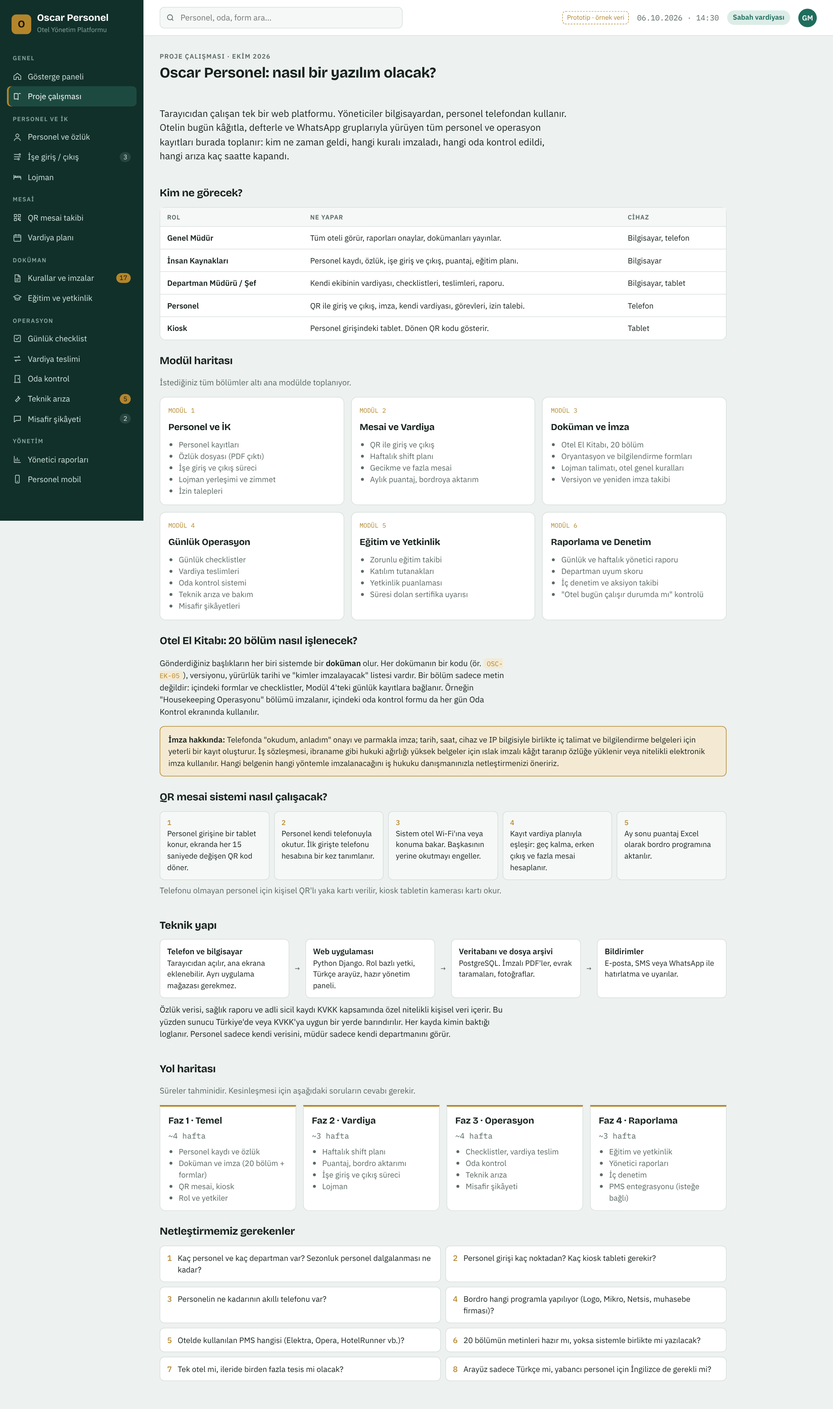
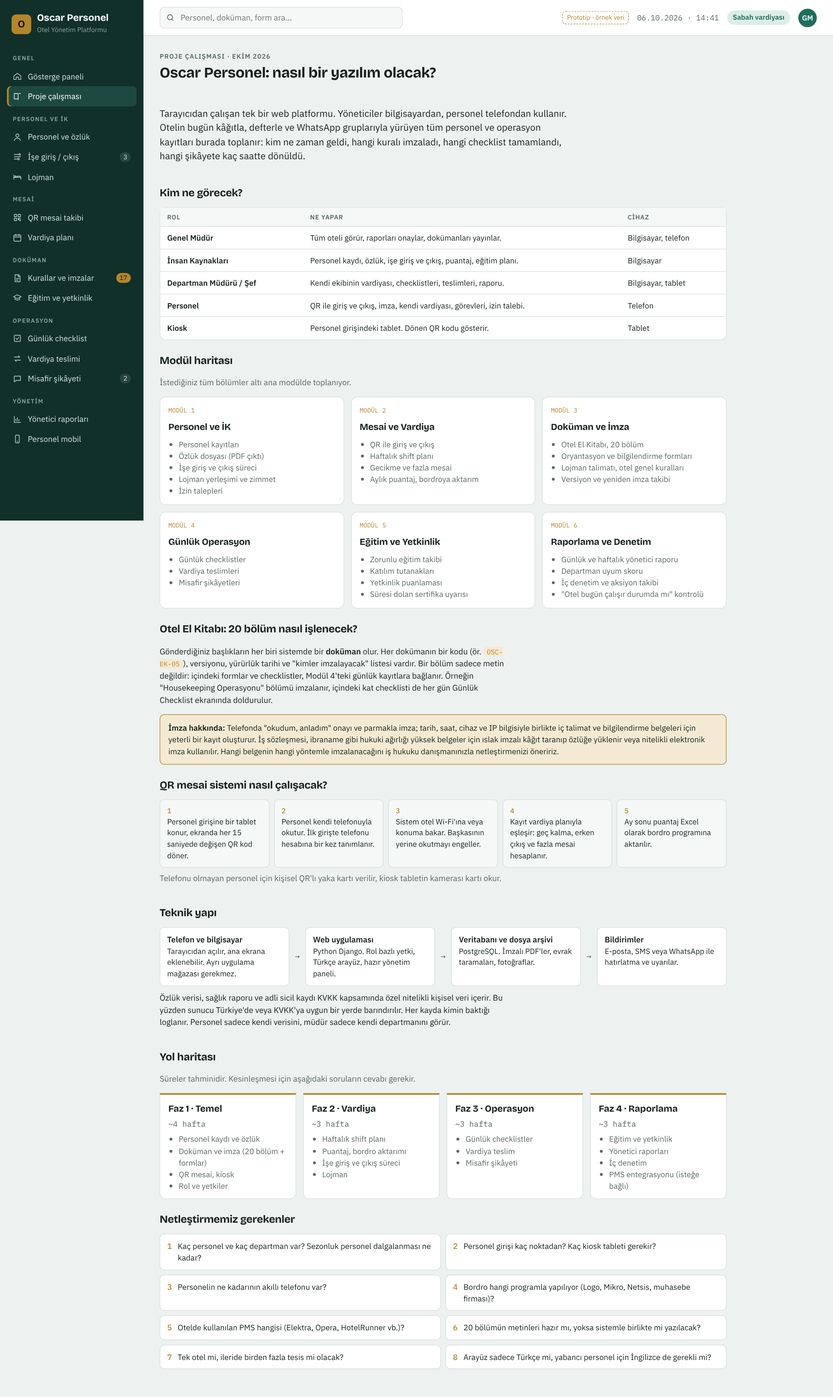
Oda kontrol ve teknik arıza modüllerini kapsamdan çıkar
Oda durumu ve arıza takibi bu platformdan yönetilmeyecek. Prototipten
ilgili ekranlar, menü öğeleri, panel kartları ve rapor göstergeleri
kaldırıldı; proje çalışması ve ekran görüntüleri güncellendi.

Claude-Session: https://claude.ai/code/session_018WVEAY7Ayzfr3JTLjjkH4o

diff --git a/prototip/index.html b/prototip/index.html
@@ -199,17 +199,6 @@ label.chk input{margin-top:3px;accent-color:var(--accent);width:16px;height:16px
 .cl-item.done span.t{color:var(--muted);text-decoration:line-through}
 .cl-item .by{margin-left:auto;font-size:.74rem;color:var(--muted);font-family:var(--f-mono);white-space:nowrap}
 
-/* Oda */
-.floors{display:flex;flex-direction:column;gap:10px}
-.floor{display:flex;gap:10px;align-items:center}
-.floor>span{width:48px;flex:none;font-family:var(--f-mono);font-size:.75rem;color:var(--muted)}
-.rooms{display:grid;grid-template-columns:repeat(auto-fill,minmax(54px,1fr));gap:6px;flex:1;min-width:0}
-.room{border-radius:7px;padding:6px 4px;text-align:center;font-family:var(--f-mono);font-size:.78rem;font-weight:500;border:1px solid transparent;background:none}
-.room.temiz{background:var(--ok-soft);color:var(--ok)} .room.kirli{background:var(--warn-soft);color:var(--warn)}
-.room.kontrol{background:var(--info-soft);color:var(--info)} .room.ariza{background:var(--bad-soft);color:var(--bad)}
-.room.dolu{background:var(--surface-2);color:var(--muted);border-color:var(--line)}
-.room.sel{outline:2px solid var(--brass);outline-offset:1px}
-
 /* Rapor grafikleri */
 .chart{width:100%;height:auto;display:block}
 .chart text{fill:var(--muted);font-family:var(--f-mono);font-size:10px}
@@ -272,7 +261,7 @@ label.chk input{margin-top:3px;accent-color:var(--accent);width:16px;height:16px
   <div class="main">
     <div class="top">
       <button class="btn sm menu-btn" id="menuBtn" aria-label="Menüyü aç">☰ Menü</button>
-      <label class="search" for="q"><svg width="15" height="15" viewBox="0 0 24 24" fill="none" stroke="currentColor" stroke-width="2"><circle cx="11" cy="11" r="7"/><path d="m20 20-3.5-3.5"/></svg><input id="q" placeholder="Personel, oda, form ara…"></label>
+      <label class="search" for="q"><svg width="15" height="15" viewBox="0 0 24 24" fill="none" stroke="currentColor" stroke-width="2"><circle cx="11" cy="11" r="7"/><path d="m20 20-3.5-3.5"/></svg><input id="q" placeholder="Personel, doküman, form ara…"></label>
       <div class="meta">
         <span class="demo-tag">Prototip · örnek veri</span>
         <span class="hide-sm muted mono" id="clock">06.10.2026 · 09:41</span>
@@ -289,8 +278,8 @@ label.chk input{margin-top:3px;accent-color:var(--accent);width:16px;height:16px
         <div class="kpi"><span class="eyebrow">İçerideki personel</span><span class="v">42<small> / 58</small></span><span class="d">Vardiyada olması gereken: 44</span></div>
         <div class="kpi warn"><span class="eyebrow">Geç kalan</span><span class="v">3</span><span class="d">Ort. gecikme 14 dk</span></div>
         <div class="kpi alert"><span class="eyebrow">İmza bekleyen</span><span class="v">17</span><span class="d">6 personel · 4 doküman</span></div>
-        <div class="kpi"><span class="eyebrow">Hazır oda</span><span class="v">96<small> / 120</small></span><span class="d">11 kontrol bekliyor</span></div>
-        <div class="kpi alert"><span class="eyebrow">Açık arıza</span><span class="v">5</span><span class="d">1 tanesi SLA dışında</span></div>
+        <div class="kpi warn"><span class="eyebrow">Checklist</span><span class="v">%86</span><span class="d">2 liste saatinde bitmedi</span></div>
+        <div class="kpi alert"><span class="eyebrow">Süresi dolan belge</span><span class="v">3</span><span class="d">Sağlık raporu, hijyen sertifikası</span></div>
         <div class="kpi warn"><span class="eyebrow">Açık şikâyet</span><span class="v">2</span><span class="d">Bugün açılan: 1</span></div>
       </div>
       <div class="grid g-main">
@@ -298,7 +287,7 @@ label.chk input{margin-top:3px;accent-color:var(--accent);width:16px;height:16px
           <div class="body" id="deptCompliance"></div></div>
         <div class="panel"><header><h2>Dikkat gerektirenler</h2></header>
           <div class="list">
-            <div class="row"><span class="sev bad"></span><div><div class="t">Oda 412 · klima arızası</div><div class="s">SLA 4 saat · 5 sa 20 dk geçti · Teknik</div></div><button class="btn sm end" data-go="ariza">Aç</button></div>
+            <div class="row"><span class="sev bad"></span><div><div class="t">Can Yılmaz · haftalık 57 saat</div><div class="s">Vardiya planı 45 saat sınırını aşıyor · F&amp;B</div></div><button class="btn sm end" data-go="vardiya">Aç</button></div>
             <div class="row"><span class="sev bad"></span><div><div class="t">Mutfak soğuk oda sıcaklık kaydı eksik</div><div class="s">06:00 ölçümü girilmedi · F&amp;B</div></div><button class="btn sm end" data-go="checklist">Aç</button></div>
             <div class="row"><span class="sev warn"></span><div><div class="t">Elif Karaca · sağlık raporu süresi doluyor</div><div class="s">Özlük · 9 gün kaldı</div></div><button class="btn sm end" data-go="ozluk">Aç</button></div>
             <div class="row"><span class="sev warn"></span><div><div class="t">Misafir şikâyeti · Oda 208 gürültü</div><div class="s">Ön Büro · 1 sa 05 dk önce</div></div><button class="btn sm end" data-go="sikayet">Aç</button></div>
@@ -310,7 +299,7 @@ label.chk input{margin-top:3px;accent-color:var(--accent);width:16px;height:16px
         <div class="panel"><header><h2>Vardiya teslim notları</h2><button class="btn sm right" data-go="teslim">Tümü</button></header>
           <div class="list">
             <div class="row"><span class="sev info"></span><div><div class="t">Ön Büro · Gece → Sabah</div><div class="s">3 geç çıkış talebi onaylandı, kasa farkı yok, 2 VIP giriş 14:00.</div></div><span class="end mono muted" style="font-size:.75rem">07:02</span></div>
-            <div class="row"><span class="sev warn"></span><div><div class="t">Teknik · Gece → Sabah</div><div class="s">Jeneratör test edildi. 412 klima kompresör sesi, parça bekleniyor.</div></div><span class="end mono muted" style="font-size:.75rem">07:10</span></div>
+            <div class="row"><span class="sev warn"></span><div><div class="t">Güvenlik · Gece → Sabah</div><div class="s">Gece turu sorunsuz. Kamera kayıtları kontrol edildi, otopark kapısı 02:10'da kilitlendi.</div></div><span class="end mono muted" style="font-size:.75rem">07:10</span></div>
             <div class="row"><span class="sev ok"></span><div><div class="t">Housekeeping · Akşam → Gece</div><div class="s">Kat 3 tamam. Çamaşırhane teslimi 22:40'ta yapıldı.</div></div><span class="end mono muted" style="font-size:.75rem">23:05</span></div>
           </div></div>
       </div>
@@ -416,29 +405,12 @@ label.chk input{margin-top:3px;accent-color:var(--accent);width:16px;height:16px
         <div class="panel"><header><h2>Geçmiş teslimler</h2></header><div class="tbl-wrap"><table>
           <tr><th>Tarih</th><th>Departman</th><th>Vardiya</th><th>Durum</th></tr>
           <tr><td class="mono">06.10 07:02</td><td>Ön Büro</td><td>G → S</td><td><span class="pill ok">Onaylı</span></td></tr>
-          <tr><td class="mono">06.10 07:10</td><td>Teknik</td><td>G → S</td><td><span class="pill warn">1 açık iş</span></td></tr>
+          <tr><td class="mono">06.10 07:10</td><td>Güvenlik</td><td>G → S</td><td><span class="pill warn">1 açık iş</span></td></tr>
           <tr><td class="mono">05.10 23:05</td><td>Housekeeping</td><td>A → G</td><td><span class="pill ok">Onaylı</span></td></tr>
           <tr><td class="mono">05.10 23:01</td><td>Ön Büro</td><td>A → G</td><td><span class="pill ok">Onaylı</span></td></tr>
           <tr><td class="mono">05.10 15:12</td><td>Mutfak</td><td>S → A</td><td><span class="pill bad">Alan onaylamadı</span></td></tr>
         </table></div></div>
       </div>
-    </section>
-
-    <!-- 10. ODA KONTROL -->
-    <section class="view" id="v-oda">
-      <div class="head"><div><span class="eyebrow">Oda kontrol sistemi</span><h1>Oda durumu</h1><p>Kat görevlisi odayı bitirince telefondan "temiz" işaretler, supervisor 25 maddelik oda kontrol formuyla onaylar. Bulunan arıza tek dokunuşla teknik servise iş emri olarak düşer.</p></div></div>
-      <div class="legend"><span class="room temiz">Temiz</span><span class="room kontrol">Kontrol bekliyor</span><span class="room kirli">Kirli</span><span class="room dolu">Dolu</span><span class="room ariza">Arızalı</span></div>
-      <div class="grid g-main">
-        <div class="panel"><div class="body"><div class="floors" id="floors"></div></div></div>
-        <div class="panel" id="roomDetail"></div>
-      </div>
-    </section>
-
-    <!-- 11. TEKNİK ARIZA -->
-    <section class="view" id="v-ariza">
-      <div class="head"><div><span class="eyebrow">Teknik, bakım ve tesis</span><h1>Arıza ve iş emirleri</h1><p>Her departman arıza bildirebilir. Teknik şef atar, teknisyen fotoğrafla kapatır. Öncelik seviyesine göre çözüm süresi (SLA) izlenir. Periyodik bakımlar takvimden otomatik oluşur.</p></div>
-        <div class="actions"><button class="btn primary">Arıza bildir</button></div></div>
-      <div class="panel"><div class="tbl-wrap"><table id="faultTable"></table></div></div>
     </section>
 
     <!-- 12. ŞİKÂYET -->
@@ -468,15 +440,15 @@ label.chk input{margin-top:3px;accent-color:var(--accent);width:16px;height:16px
           <tr><th>Gösterge</th><th>Bu hafta</th><th>Geçen hafta</th><th>Durum</th></tr>
           <tr><td>Toplam fazla mesai</td><td class="num">62 sa</td><td class="num">48 sa</td><td><span class="pill warn">Arttı</span></td></tr>
           <tr><td>Checklist tamamlanma</td><td class="num">%91</td><td class="num">%87</td><td><span class="pill ok">İyi</span></td></tr>
-          <tr><td>Ort. arıza çözüm süresi</td><td class="num">3 sa 10 dk</td><td class="num">4 sa 40 dk</td><td><span class="pill ok">İyi</span></td></tr>
+          <tr><td>Vardiya teslim onay oranı</td><td class="num">%96</td><td class="num">%92</td><td><span class="pill ok">İyi</span></td></tr>
           <tr><td>Misafir şikâyeti</td><td class="num">6</td><td class="num">4</td><td><span class="pill warn">Arttı</span></td></tr>
-          <tr><td>Oda kontrol hata oranı</td><td class="num">%4,2</td><td class="num">%5,8</td><td><span class="pill ok">İyi</span></td></tr>
+          <tr><td>Zorunlu eğitim tamamlanma</td><td class="num">%84</td><td class="num">%80</td><td><span class="pill ok">İyi</span></td></tr>
           <tr><td>Bekleyen imza</td><td class="num">17</td><td class="num">9</td><td><span class="pill bad">Dikkat</span></td></tr>
         </table></div></div>
       </div>
       <div class="panel"><header><h2>Departman müdürü notları</h2></header><div class="list">
         <div class="row"><span class="sev warn"></span><div><div class="t">F&amp;B Müdürü · Fazla mesai</div><div class="s">Hafta sonu düğün organizasyonu nedeniyle servis ekibinde 28 saat fazla mesai. Gelecek organizasyon için 2 ekstra personel talep ediliyor.</div></div></div>
-        <div class="row"><span class="sev ok"></span><div><div class="t">Housekeeping Müdürü · Oda kontrol</div><div class="s">Yeni kontrol formuyla hata oranı düştü. En sık hata: banyo silikon ve minibar eksikleri.</div></div></div>
+        <div class="row"><span class="sev ok"></span><div><div class="t">Housekeeping Müdürü · Checklist</div><div class="s">Kat checklistlerinde tamamlanma %97'ye çıktı. Yeni başlayan 2 personelin oryantasyonu Perşembe bitiyor.</div></div></div>
       </div></div>
     </section>
 
@@ -489,7 +461,7 @@ label.chk input{margin-top:3px;accent-color:var(--accent);width:16px;height:16px
           <div class="panel" style="padding:10px"><div class="eyebrow">Bugünkü vardiya</div><b class="mono">07:00 – 15:00</b><div class="muted" style="font-size:.75rem">Giriş: 06:52 ✓</div></div>
           <button class="btn primary" style="justify-content:center" data-go="qr">QR okut · Çıkış yap</button>
           <div class="panel" style="padding:10px;border-color:var(--bad)"><div class="eyebrow" style="color:var(--bad)">2 doküman imza bekliyor</div><div style="font-size:.8rem">Lojman Talimatı v3<br>KVKK Bilgi Güvenliği</div><button class="btn sm" style="margin-top:6px" data-sign="2">Oku ve imzala</button></div>
-          <div class="panel" style="padding:10px"><div class="eyebrow">Görevlerim</div><div style="font-size:.8rem">Kat 3 · 14 oda (9 tamam)<br>Kat 3 koridor checklist</div></div>
+          <div class="panel" style="padding:10px"><div class="eyebrow">Görevlerim</div><div style="font-size:.8rem">Kat 3 koridor checklist (3/4)<br>Hijyen eğitimi · Perşembe 10:00</div></div>
         </div></div>
         <div class="phone"><div class="notch"></div><div class="scr">
           <b style="font-family:var(--f-display)">Bu haftaki vardiyam</b>
@@ -498,17 +470,16 @@ label.chk input{margin-top:3px;accent-color:var(--accent);width:16px;height:16px
           <button class="btn">İzin talebi oluştur</button>
         </div></div>
         <div class="phone"><div class="notch"></div><div class="scr">
-          <b style="font-family:var(--f-display)">Oda 307 · Kontrol</b>
-          <div class="muted" style="font-size:.75rem">Supervisor formu · 25 madde</div>
+          <b style="font-family:var(--f-display)">Vardiya teslimi</b>
+          <div class="muted" style="font-size:.75rem">Ön Büro · Gece → Sabah</div>
           <div class="checks">
-            <div class="ci"><span class="ico-ok">✓</span> Yatak ve nevresim</div>
-            <div class="ci"><span class="ico-ok">✓</span> Banyo, havlu seti</div>
-            <div class="ci"><span class="ico-no">✗</span> Minibar eksik: 2 su</div>
-            <div class="ci"><span class="ico-ok">✓</span> Klima, TV, aydınlatma</div>
-            <div class="ci"><span class="ico-wait">!</span> Perde rayı gevşek</div>
+            <div class="ci"><span class="ico-ok">✓</span> Kasa devri · fark yok</div>
+            <div class="ci"><span class="ico-ok">✓</span> Gece raporu hazır</div>
+            <div class="ci"><span class="ico-wait">!</span> 208 şikâyetine geri dönüş</div>
+            <div class="ci"><span class="ico-ok">✓</span> 2 VIP giriş 14:00</div>
           </div>
-          <button class="btn sm">📷 Fotoğraf ekle</button>
-          <button class="btn primary sm">Teknik servise bildir</button>
+          <div class="panel" style="padding:10px;font-size:.8rem"><div class="eyebrow">Teslim eden</div>Burak Şahin · 07:02 ✓</div>
+          <button class="btn primary sm">Teslim aldım, onayla</button>
         </div></div>
       </div>
     </section>
@@ -517,7 +488,7 @@ label.chk input{margin-top:3px;accent-color:var(--accent);width:16px;height:16px
     <section class="view" id="v-calisma">
       <div class="study">
         <div class="head"><div><span class="eyebrow">Proje çalışması · Ekim 2026</span><h1>Oscar Personel: nasıl bir yazılım olacak?</h1></div></div>
-        <p class="lead">Tarayıcıdan çalışan tek bir web platformu. Yöneticiler bilgisayardan, personel telefondan kullanır. Otelin bugün kâğıtla, defterle ve WhatsApp gruplarıyla yürüyen tüm personel ve operasyon kayıtları burada toplanır: kim ne zaman geldi, hangi kuralı imzaladı, hangi oda kontrol edildi, hangi arıza kaç saatte kapandı.</p>
+        <p class="lead">Tarayıcıdan çalışan tek bir web platformu. Yöneticiler bilgisayardan, personel telefondan kullanır. Otelin bugün kâğıtla, defterle ve WhatsApp gruplarıyla yürüyen tüm personel ve operasyon kayıtları burada toplanır: kim ne zaman geldi, hangi kuralı imzaladı, hangi checklist tamamlandı, hangi şikâyete kaç saatte dönüldü.</p>
 
         <div><h2>Kim ne görecek?</h2>
         <div class="panel" style="margin-top:10px"><div class="tbl-wrap"><table>
@@ -534,13 +505,13 @@ label.chk input{margin-top:3px;accent-color:var(--accent);width:16px;height:16px
           <div class="mod"><span class="tag">MODÜL 1</span><h3>Personel ve İK</h3><ul><li>Personel kayıtları</li><li>Özlük dosyası (PDF çıktı)</li><li>İşe giriş ve çıkış süreci</li><li>Lojman yerleşimi ve zimmet</li><li>İzin talepleri</li></ul></div>
           <div class="mod"><span class="tag">MODÜL 2</span><h3>Mesai ve Vardiya</h3><ul><li>QR ile giriş ve çıkış</li><li>Haftalık shift planı</li><li>Gecikme ve fazla mesai</li><li>Aylık puantaj, bordroya aktarım</li></ul></div>
           <div class="mod"><span class="tag">MODÜL 3</span><h3>Doküman ve İmza</h3><ul><li>Otel El Kitabı, 20 bölüm</li><li>Oryantasyon ve bilgilendirme formları</li><li>Lojman talimatı, otel genel kuralları</li><li>Versiyon ve yeniden imza takibi</li></ul></div>
-          <div class="mod"><span class="tag">MODÜL 4</span><h3>Günlük Operasyon</h3><ul><li>Günlük checklistler</li><li>Vardiya teslimleri</li><li>Oda kontrol sistemi</li><li>Teknik arıza ve bakım</li><li>Misafir şikâyetleri</li></ul></div>
+          <div class="mod"><span class="tag">MODÜL 4</span><h3>Günlük Operasyon</h3><ul><li>Günlük checklistler</li><li>Vardiya teslimleri</li><li>Misafir şikâyetleri</li></ul></div>
           <div class="mod"><span class="tag">MODÜL 5</span><h3>Eğitim ve Yetkinlik</h3><ul><li>Zorunlu eğitim takibi</li><li>Katılım tutanakları</li><li>Yetkinlik puanlaması</li><li>Süresi dolan sertifika uyarısı</li></ul></div>
           <div class="mod"><span class="tag">MODÜL 6</span><h3>Raporlama ve Denetim</h3><ul><li>Günlük ve haftalık yönetici raporu</li><li>Departman uyum skoru</li><li>İç denetim ve aksiyon takibi</li><li>"Otel bugün çalışır durumda mı" kontrolü</li></ul></div>
         </div></div>
 
         <div><h2>Otel El Kitabı: 20 bölüm nasıl işlenecek?</h2>
-        <p>Gönderdiğiniz başlıkların her biri sistemde bir <b>doküman</b> olur. Her dokümanın bir kodu (ör. <span class="doc-code">OSC-EK-05</span>), versiyonu, yürürlük tarihi ve "kimler imzalayacak" listesi vardır. Bir bölüm sadece metin değildir: içindeki formlar ve checklistler, Modül 4'teki günlük kayıtlara bağlanır. Örneğin "Housekeeping Operasyonu" bölümü imzalanır, içindeki oda kontrol formu da her gün Oda Kontrol ekranında kullanılır.</p>
+        <p>Gönderdiğiniz başlıkların her biri sistemde bir <b>doküman</b> olur. Her dokümanın bir kodu (ör. <span class="doc-code">OSC-EK-05</span>), versiyonu, yürürlük tarihi ve "kimler imzalayacak" listesi vardır. Bir bölüm sadece metin değildir: içindeki formlar ve checklistler, Modül 4'teki günlük kayıtlara bağlanır. Örneğin "Housekeeping Operasyonu" bölümü imzalanır, içindeki kat checklisti de her gün Günlük Checklist ekranında doldurulur.</p>
         <div class="note"><b>İmza hakkında:</b> Telefonda "okudum, anladım" onayı ve parmakla imza; tarih, saat, cihaz ve IP bilgisiyle birlikte iç talimat ve bilgilendirme belgeleri için yeterli bir kayıt oluşturur. İş sözleşmesi, ibraname gibi hukuki ağırlığı yüksek belgeler için ıslak imzalı kâğıt taranıp özlüğe yüklenir veya nitelikli elektronik imza kullanılır. Hangi belgenin hangi yöntemle imzalanacağını iş hukuku danışmanınızla netleştirmenizi öneririz.</div></div>
 
         <div><h2>QR mesai sistemi nasıl çalışacak?</h2>
@@ -566,7 +537,7 @@ label.chk input{margin-top:3px;accent-color:var(--accent);width:16px;height:16px
         <div class="phases">
           <div class="phase"><b>Faz 1 · Temel</b><span class="muted mono">~4 hafta</span><ul><li>Personel kaydı ve özlük</li><li>Doküman ve imza (20 bölüm + formlar)</li><li>QR mesai, kiosk</li><li>Rol ve yetkiler</li></ul></div>
           <div class="phase"><b>Faz 2 · Vardiya</b><span class="muted mono">~3 hafta</span><ul><li>Haftalık shift planı</li><li>Puantaj, bordro aktarımı</li><li>İşe giriş ve çıkış süreci</li><li>Lojman</li></ul></div>
-          <div class="phase"><b>Faz 3 · Operasyon</b><span class="muted mono">~4 hafta</span><ul><li>Checklistler, vardiya teslim</li><li>Oda kontrol</li><li>Teknik arıza</li><li>Misafir şikâyeti</li></ul></div>
+          <div class="phase"><b>Faz 3 · Operasyon</b><span class="muted mono">~3 hafta</span><ul><li>Günlük checklistler</li><li>Vardiya teslim</li><li>Misafir şikâyeti</li></ul></div>
           <div class="phase"><b>Faz 4 · Raporlama</b><span class="muted mono">~3 hafta</span><ul><li>Eğitim ve yetkinlik</li><li>Yönetici raporları</li><li>İç denetim</li><li>PMS entegrasyonu (isteğe bağlı)</li></ul></div>
         </div></div>
 
@@ -616,7 +587,7 @@ const NAV=[
  ['Personel ve İK',[['ozluk','Personel ve özlük','user'],['surec','İşe giriş / çıkış','flow',3],['lojman','Lojman','bed']]],
  ['Mesai',[['qr','QR mesai takibi','qr'],['vardiya','Vardiya planı','cal']]],
  ['Doküman',[['dokuman','Kurallar ve imzalar','doc',17,true],['egitim','Eğitim ve yetkinlik','cap']]],
- ['Operasyon',[['checklist','Günlük checklist','check'],['teslim','Vardiya teslimi','swap'],['oda','Oda kontrol','door'],['ariza','Teknik arıza','wrench',5,true],['sikayet','Misafir şikâyeti','chat',2]]],
+ ['Operasyon',[['checklist','Günlük checklist','check'],['teslim','Vardiya teslimi','swap'],['sikayet','Misafir şikâyeti','chat',2]]],
  ['Yönetim',[['rapor','Yönetici raporları','chart'],['mobil','Personel mobil','phone']]]];
 $('#nav').innerHTML=NAV.map(([g,items])=>`<div class="nav-group"><span>${g}</span>${items.map(([id,l,i,c,h])=>`<button data-go="${id}"><svg viewBox="0 0 24 24" fill="none" stroke="currentColor" stroke-width="1.8" stroke-linecap="round" stroke-linejoin="round">${ic[i]}</svg>${l}${c?`<span class="count${h?' hot':''}">${c}</span>`:''}</button>`).join('')}</div>`).join('');
 function go(id){ if(!$('#v-'+id)) id='panel';
@@ -755,7 +726,7 @@ $('#lojmanGrid').innerHTML=[['Blok A · Oda 1','4 kişilik',['Kemal Aksoy','Gök
 /* Checklist */
 const CL={'Ön Büro · Sabah açılış':[['Kasa devri ve sayım','Selin A. 07:04',1],['Gece raporu kontrolü','Selin A. 07:10',1],['Bugünkü VIP ve grup girişleri','Selin A. 07:20',1],['Lobi ve resepsiyon düzeni','',0],['Anahtar kartı stok sayımı','',0],['Misafir şikâyet defteri kontrolü','',0]],
  'Mutfak · HACCP':[['Soğuk oda sıcaklığı 06:00 (°C)','',0],['Derin dondurucu −18 °C altında','Kemal A. 06:05',1],['Mal kabul kontrolü ve etiketleme','Kemal A. 06:40',1],['Personel hijyen kontrolü','Kemal A. 06:10',1],['Yağ değişim kaydı','',0]],
- 'Housekeeping · Kat 3':[['Koridor ve yangın çıkışı açık','Elif K. 08:15',1],['Kat arabası dolumu','Ayşe Y. 07:20',1],['Kayıp eşya kaydı','',0],['Minibar sayım listesi','Ayşe Y. 08:00',1]],
+ 'Housekeeping · Kat 3':[['Koridor ve yangın çıkışı açık','Elif K. 08:15',1],['Kat arabası dolumu','Ayşe Y. 07:20',1],['Kayıp eşya kaydı','',0],['Kat ofisi malzeme stoğu','Ayşe Y. 08:00',1]],
  'Güvenlik · Gece turu':[['Yangın paneli kontrolü','Mehmet K. 00:10',1],['Kamera kayıt kontrolü','Mehmet K. 00:20',1],['Dış kapılar kilit turu 02:00','Mehmet K. 02:05',1],['Jeneratör yakıt seviyesi','Mehmet K. 04:00',1]]};
 let clKey=Object.keys(CL)[0];
 $('#clTabs').innerHTML=Object.keys(CL).map((k,i)=>`<button class="${i?'':'on'}" data-k="${k}">${k}</button>`).join('');
@@ -765,28 +736,6 @@ function renderCL(){const L=CL[clKey];$('#clTitle').textContent=clKey;const d=L.
 renderCL();
 $('#clTabs').addEventListener('click',e=>{const b=e.target.closest('button');if(!b)return;clKey=b.dataset.k;$$('#clTabs button').forEach(x=>x.classList.toggle('on',x===b));renderCL()});
 $('#clItems').addEventListener('change',e=>{const i=e.target.dataset.i;const it=CL[clKey][i];it[2]=e.target.checked?1:0;const d=new Date();it[1]=it[2]?`Siz ${pad(d.getHours())}:${pad(d.getMinutes())}`:'';renderCL()});
-
-/* Odalar */
-const ST=['temiz','temiz','temiz','dolu','dolu','kontrol','kirli','temiz','dolu','dolu','temiz','kontrol'];const STL={temiz:'Temiz',kirli:'Kirli',kontrol:'Kontrol bekliyor',ariza:'Arızalı',dolu:'Dolu'};
-const ROOMS={};let fl='';for(let f=5;f>=1;f--){let r='';for(let n=1;n<=24;n++){const no=f*100+n;let s=ST[(f*7+n*5)%ST.length];if(no===412||no===218)s='ariza';ROOMS[no]=s;r+=`<button class="room ${s}" data-r="${no}">${no}</button>`}fl+=`<div class="floor"><span>Kat ${f}</span><div class="rooms">${r}</div></div>`}
-$('#floors').innerHTML=fl;
-function roomDetail(no){const s=ROOMS[no];$$('.room').forEach(b=>b.classList.toggle('sel',b.dataset.r==no));
- $('#roomDetail').innerHTML=`<header><h2>Oda ${no}</h2><span class="right"><span class="pill ${s==='temiz'?'ok':s==='ariza'?'bad':s==='kirli'?'warn':s==='kontrol'?'info':'neutral'}">${STL[s]}</span></span></header><div class="body" style="display:flex;flex-direction:column;gap:12px">
- <dl class="dl"><div><dt>Tip</dt><dd>${no%2?'Standart çift':'Deluxe deniz manzara'}</dd></div><div><dt>Kat görevlisi</dt><dd>${no<300?'Fatma Demir':'Ayşe Yıldız'}</dd></div><div><dt>Son temizlik</dt><dd class="mono">06.10 · 09:12</dd></div><div><dt>Son kontrol</dt><dd class="mono">Elif K. · 05.10</dd></div></dl>
- ${s==='ariza'?`<div class="note" style="background:var(--bad-soft);border-color:var(--bad)"><b>Açık iş emri:</b> ${no===412?'Klima soğutmuyor, kompresör sesi. SLA aşıldı.':'Lavabo gideri tıkalı. Teknisyen yolda.'}</div>`:''}
- <div class="eyebrow">Son kontrol formu · 25 madde</div><div class="checks"><div class="ci"><span class="ico-ok">✓</span>Yatak ve nevresim<span class="st muted">uygun</span></div><div class="ci"><span class="ico-ok">✓</span>Banyo ve havlu seti<span class="st muted">uygun</span></div><div class="ci"><span class="ico-no">✗</span>Minibar<span class="st"><span class="pill warn">2 su eksik</span></span></div><div class="ci"><span class="ico-ok">✓</span>Klima, TV, aydınlatma<span class="st muted">uygun</span></div></div>
- <div style="display:flex;gap:8px;flex-wrap:wrap"><button class="btn sm primary">Kontrol formu başlat</button><button class="btn sm" data-go="ariza">Arıza bildir</button></div></div>`}
-$('#floors').addEventListener('click',e=>{const b=e.target.closest('.room');if(b)roomDetail(+b.dataset.r)});
-roomDetail(412);
-
-/* Arızalar */
-$('#faultTable').innerHTML=`<tr><th>No</th><th>Konu</th><th>Yer</th><th>Bildiren</th><th>Atanan</th><th>Öncelik</th><th>SLA</th><th>Durum</th></tr>`+[
- ['İE-2041','Klima soğutmuyor','Oda 412','Ön Büro','Okan Tekin','bad Yüksek','5 sa 20 dk / 4 sa','bad SLA aşıldı'],
- ['İE-2042','Lavabo gideri tıkalı','Oda 218','Housekeeping','Serkan Uçar','warn Orta','1 sa 10 dk / 8 sa','info Yolda'],
- ['İE-2039','Bulaşık makinesi su kaçırıyor','Mutfak','Mutfak','Okan Tekin','bad Yüksek','2 sa 05 dk / 4 sa','warn Parça bekliyor'],
- ['İE-2038','Lobi spot ampulü','Lobi','Güvenlik','Serkan Uçar','info Düşük','—','ok Çözüldü'],
- ['İE-2036','Havuz pompası periyodik bakım','Havuz','Planlı bakım','Okan Tekin','info Planlı','Bugün 14:00','neutral Planlandı']
-].map(r=>`<tr><td class="mono">${r[0]}</td><td><b>${r[1]}</b></td><td>${r[2]}</td><td>${r[3]}</td><td>${r[4]}</td>${[r[5]].map(x=>`<td><span class="pill ${x.split(' ')[0]}">${x.split(' ').slice(1).join(' ')}</span></td>`).join('')}<td class="mono" style="white-space:nowrap">${r[6]}</td><td><span class="pill ${r[7].split(' ')[0]}">${r[7].split(' ').slice(1).join(' ')}</span></td></tr>`).join('');
 
 /* Şikâyetler */
 $('#complaints').innerHTML=[['bad','Oda 208 · Yan odadan gürültü','Ön Büro · Misafir: B. Kılıç · Telafi: oda değişimi teklif edildi','Açık · 1 sa 05 dk'],['warn','Restoran · Kahvaltıda bekleme süresi','F&B Servis · Google yorumu · 3/5 puan','Geri dönüş bekliyor'],['ok','Oda 115 · Havlu eksikliği','Housekeeping · 10 dk içinde çözüldü, misafir arandı','Kapandı'],['ok','Otopark · Vale gecikmesi','Güvenlik · Özür ve ücretsiz kahve','Kapandı']].map(([s,t,d,e])=>`<div class="row"><span class="sev ${s}"></span><div><div class="t">${t}</div><div class="s">${d}</div></div><span class="end pill ${s}">${e}</span></div>`).join('');

diff --git a/docs/PROJE_CALISMASI.md b/docs/PROJE_CALISMASI.md
@@ -28,7 +28,7 @@ Her rol yalnızca yetkisi olan veriyi görür. Personel kendi kaydını, müdür
 | **1. Personel ve İK** | Personel kayıtları, özlük dosyası (PDF çıktı), işe giriş ve çıkış süreci, lojman yerleşimi ve zimmet, izin talepleri |
 | **2. Mesai ve Vardiya** | QR ile giriş/çıkış, haftalık shift planı, gecikme ve fazla mesai hesabı, aylık puantaj ve bordroya aktarım |
 | **3. Doküman ve İmza** | Otel El Kitabı (20 bölüm), oryantasyon ve bilgilendirme formları, lojman talimatı, otel genel kuralları, versiyon ve yeniden imza takibi |
-| **4. Günlük Operasyon** | Günlük checklistler, vardiya teslimleri, oda kontrol sistemi, teknik arıza ve bakım, misafir şikâyetleri |
+| **4. Günlük Operasyon** | Günlük checklistler, vardiya teslimleri, misafir şikâyetleri |
 | **5. Eğitim ve Yetkinlik** | Zorunlu eğitim takibi (İSG, yangın, hijyen, KVKK), katılım tutanakları, yetkinlik puanı, süresi dolan sertifika uyarısı |
 | **6. Raporlama ve Denetim** | Günlük ve haftalık yönetici raporu, departman uyum skoru, iç denetim ve aksiyon takibi |
 
@@ -64,7 +64,7 @@ Doküman güncellendiğinde (ör. v2 → v3) ilgili personelden yeniden imza ist
 
 İşe giriş formları: Oryantasyon Formu, Bilgilendirme Formu, Lojman Talimatı, Otel Genel Kuralları, KVKK Aydınlatma ve Açık Rıza, İSG Eğitim Katılım Tutanağı, Zimmet Teslim Formu, Kıyafet ve Hijyen Talimatı.
 
-Bir bölüm yalnızca metin değildir. İçindeki formlar ve checklistler Modül 4'teki günlük kayıtlara bağlanır. Örneğin "Housekeeping Operasyonu" imzalanır, içindeki oda kontrol formu da her gün Oda Kontrol ekranında kullanılır.
+Bir bölüm yalnızca metin değildir. İçindeki formlar ve checklistler Modül 4'teki günlük kayıtlara bağlanır. Örneğin "Housekeeping Operasyonu" imzalanır, içindeki kat checklisti de her gün Günlük Checklist ekranında doldurulur.
 
 ### İmza yöntemi
 
@@ -113,16 +113,16 @@ Bir adım tamamlanmadan sonraki açılmaz (ör. oryantasyon formu imzalanmadan Q
 |---|---|
 | Günlük checklist | Her madde kimin, ne zaman işaretlediğiyle kaydedilir. Fotoğraf veya ölçüm (ör. soğuk oda °C) istenebilir. Saatinde tamamlanmayan liste yöneticiye düşer. |
 | Vardiya teslimi | Standart teslim formu. Teslim eden ve alan iki taraf onaylar. Açık işler bir sonraki vardiyaya görev olarak düşer. |
-| Oda kontrol | Kat görevlisi "temiz" işaretler, supervisor 25 maddelik formla onaylar. Bulunan arıza tek dokunuşla teknik servise iş emri olur. |
-| Teknik arıza | Her departman bildirir, teknik şef atar, teknisyen fotoğrafla kapatır. Önceliğe göre SLA izlenir. Periyodik bakımlar takvimden otomatik oluşur. |
 | Misafir şikâyeti | Kaynak, kategori, sorumlu departman ve telafi ile kaydedilir. Misafire geri dönüş yapılmadan kapanmaz. Tekrar eden konular aylık raporda kök neden analizine gider. |
 
-![Oda kontrol](gorseller/oda.png)
+> Oda durumu ve teknik arıza takibi bu platformun kapsamı dışındadır. "Oda ve Genel Otel Kalite Standardı" ile "Teknik, Bakım ve Tesis Yönetimi" bölümleri yalnızca imzalanacak doküman olarak yer alır.
+
+![Günlük checklist](gorseller/checklist.png)
 
 ## 8. Yönetici raporları
 
 Rapor sistemdeki kayıtlardan otomatik dolar; departman müdürü yalnızca yorum ve aksiyon ekleyip onaylar.
-Genel müdüre her sabah e-posta ile gider. Göstergeler: mesai uyumu, fazla mesai, checklist tamamlanma, arıza çözüm süresi, şikâyet sayısı, oda kontrol hata oranı, bekleyen imza.
+Genel müdüre her sabah e-posta ile gider. Göstergeler: mesai uyumu, fazla mesai, checklist tamamlanma, vardiya teslim onay oranı, şikâyet sayısı, zorunlu eğitim tamamlanma, bekleyen imza.
 
 ![Rapor](gorseller/rapor.png)
 
@@ -134,7 +134,7 @@ Genel müdüre her sabah e-posta ile gider. Göstergeler: mesai uyumu, fazla mes
 | Uygulama | Python Django | Rol bazlı yetki, Türkçe dil desteği, hazır yönetim paneli, form ağırlıklı işler için hızlı geliştirme |
 | Veritabanı | PostgreSQL | Güvenilir, ilişkisel kayıtlar ve raporlama |
 | Dosya arşivi | S3 uyumlu depolama | İmzalı PDF'ler, evrak taramaları, fotoğraflar |
-| Bildirim | E-posta, SMS / WhatsApp | Hatırlatma, gecikme ve SLA uyarıları |
+| Bildirim | E-posta, SMS / WhatsApp | İmza hatırlatması, gecikme ve süresi dolan belge uyarıları |
 | Entegrasyon | Excel/CSV, ileride API | Bordro programı ve PMS'e aktarım |
 
 ### KVKK
@@ -150,7 +150,7 @@ Genel müdüre her sabah e-posta ile gider. Göstergeler: mesai uyumu, fazla mes
 |---|---|---|
 | Faz 1 · Temel | ~4 hafta | Personel kaydı ve özlük, doküman ve imza (20 bölüm + formlar), QR mesai ve kiosk, rol ve yetkiler |
 | Faz 2 · Vardiya | ~3 hafta | Haftalık shift planı, puantaj ve bordro aktarımı, işe giriş/çıkış süreci, lojman |
-| Faz 3 · Operasyon | ~4 hafta | Checklistler, vardiya teslim, oda kontrol, teknik arıza, misafir şikâyeti |
+| Faz 3 · Operasyon | ~3 hafta | Günlük checklistler, vardiya teslim, misafir şikâyeti |
 | Faz 4 · Raporlama | ~3 hafta | Eğitim ve yetkinlik, yönetici raporları, iç denetim, PMS entegrasyonu (isteğe bağlı) |
 
 ## 11. Netleştirilmesi gerekenler

diff --git a/README.md b/README.md
@@ -1,6 +1,6 @@
 # Oscar Personel
 
-Otel personel ve operasyon yönetim platformu: işe giriş/çıkış, özlük, QR mesai, haftalık vardiya, kurallar ve imza takibi, günlük checklistler, vardiya teslimi, oda kontrol, teknik arıza, misafir şikâyeti, eğitim kayıtları ve yönetici raporları.
+Otel personel ve operasyon yönetim platformu: işe giriş/çıkış, özlük, QR mesai, haftalık vardiya, kurallar ve imza takibi, günlük checklistler, vardiya teslimi, misafir şikâyeti, eğitim kayıtları ve yönetici raporları.
 
 - **Proje çalışması:** [docs/PROJE_CALISMASI.md](docs/PROJE_CALISMASI.md)
 - **Tıklanabilir prototip:** [prototip/index.html](prototip/index.html) (tarayıcıda açın; örnek verilerle çalışır)
